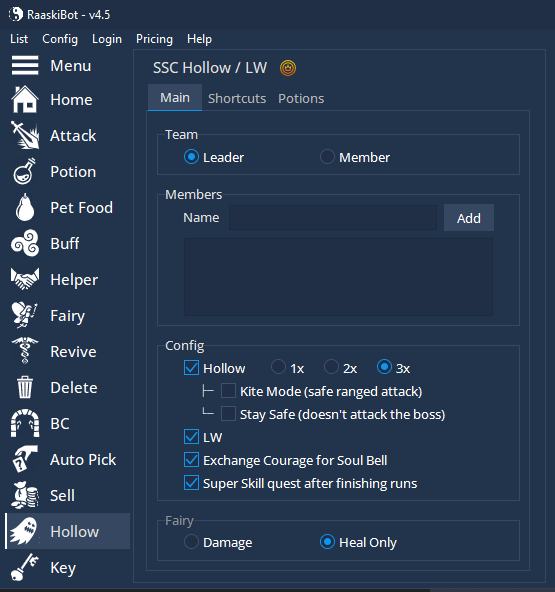
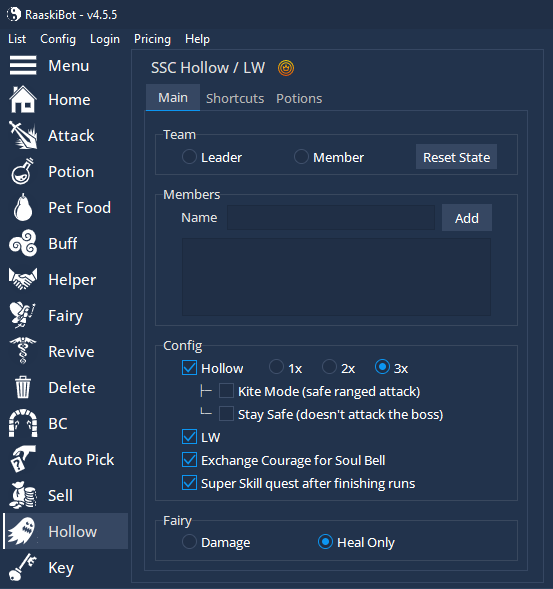
v4.5.5 released

diff --git a/index.html b/index.html
@@ -801,6 +801,7 @@
 						<li>
 							<span data-en="<b>To configure the Hollow function</b>: 
 									<br>• Select who will be the leader of the team.
+									<br>• Every time the Hollow function is started from zero, the leader must be selected and the 'Reset State' button on the Hollow tab must be clicked. This will reset the leader's progress and all team members.
 									<br>• Add the members that will be part of the team.
 									<br>• Choose which settings you want to use: 
 									<br>• • Hollow 1 to 3 times. 
@@ -811,6 +812,7 @@
 									<br>• Stay Safe: will not attack the Hollow, only will stay safe. Useful for weak characters."
 								data-pt="<b>Para configurar a função de Hollow</b>: 
 									<br>• Selecione quem vai ser o líder do time.
+									<br>• Sempre que for iniciar a função de Hollow do zero, é necessário selecionar o líder do time e clicar no botão 'Reset State' na aba Hollow. Isso irá resetar o progresso do líder e de todos os membros do time.
 									<br>• Adicione os membros que farão parte do time.
 									<br>• Escolha quais configurações deseja usar: 
 									<br>• • Hollow de 1 a 3 vezes. 
@@ -829,15 +831,55 @@
 				<!-- Patch Notes -->
 				<article id="patchnotes">
 					<h2 class="major" data-en="Patch Notes" data-pt="Patch Notes"></h2>
+
+					<h3 data-en="Version 4.5.5 - [November 29, 2025]" 
+						data-pt="Versão 4.5.5 - [29/11/2025]"></h3>
+					<ul>
+						<li>
+							<span data-en="The Hollow function was updated: it now saves the team's progress, allowing them to continue together after relog. Whenever you want to start the Hollow function from scratch, you must select the team leader and click the &quot;Reset State&quot; button in the Hollow tab. This resets the progress of the leader and all team members."
+								data-pt="A função de Hollow foi alterada: agora ela salva o progresso do time, permitindo que continuem juntos após o relog. Sempre que for iniciar a função de Hollow do zero, é necessário selecionar o líder do time e clicar no botão &quot;Reset State&quot; na aba Hollow. Isso irá resetar o progresso do líder e de todos os membros do time.">
+							</span>
+						</li>
+						<li>
+							<span data-en="The end of the Hollow path was adjusted to be safer."
+								data-pt="O final do caminho de Hollow foi ajustado para ficar mais seguro.">
+							</span>
+						</li>
+						<li>
+							<span data-en="The BC function now saves run progress, allowing you to use Return to Stone normally. Whenever you need to start the BC function from scratch, reset the progress in BC → Stats → Reset Stats."
+								data-pt="A função de BC agora salva o progresso das runs, permitindo usar o Return to Stone normalmente. Sempre que for iniciar a função de BC do zero, é necessário resetar o progresso em BC → Stats → Reset Stats.">
+							</span>
+						</li>
+						<li>
+							<span data-en="The character list sorting system was redone and is now more accurate."
+								data-pt="A ordenação da lista de chars foi refeita e agora está mais precisa.">
+							</span>
+						</li>
+						<li>
+							<span data-en='New "Reorder List" option in the menu that appears when right-clicking any character in the list.'
+								data-pt='Nova opção "Reorder List" no menu exibido ao clicar com o botão direito em qualquer char da lista.'>
+							</span>
+						</li>
+						<li>
+							<span data-en='New "Auto Relog" option in the menu that appears when right-clicking any character in the list — this makes the account automatically checked in the Login List when the bot starts (must be set individually per char).'
+								data-pt='Nova opção "Auto Relog" no menu exibido ao clicar com o botão direito em qualquer char da lista — isso faz com que a conta seja marcada automaticamente na Lista de Login ao iniciar o bot (deve ser configurado individualmente para cada char).'>
+							</span>
+						</li>
+						<li>
+							<span data-en='New "Auto Reorder" option in the "List" menu, which automatically reorders the character list.'
+								data-pt='Nova opção "Auto Reorder" no menu "List", que faz a lista de chars se reordenar automaticamente.'>
+							</span>
+						</li>
+						<li>
+							<span data-en="Several bugs/crashes related to Login/Relog and the character list have been fixed."
+								data-pt="Alguns bugs/crashes envolvendo Login/Relog e a lista de chars foram corrigidos.">
+							</span>
+						</li>
+					</ul>
 					
 					<h3 data-en="Version 4.5 - [November 21, 2025]" 
 						data-pt="Versão 4.5 - [21/11/2025]"></h3>
 					<ul>
-						<li>
-							<span data-en="Version 4.5 released."
-								data-pt="Versão 4.5 liberada.">
-							</span>
-						</li>
 						<li>
 							<span data-en="New Login/Relog function (bot menu -> Login): logs the character if it is not in the Bot list, relogs in case of disconnection, and automatically starts the bot after logging in. If you placed the Talisman folder in another directory, remember to set the folder location in the &quot;Config -> Set Path&quot; menu on the Login screen."
 								data-pt="Nova função de Login/Relog (menu do bot -> Login): loga o char caso ele não esteja na lista do Bot, reloga caso tenha levado DC e inicia automaticamente o bot depois de logar. Caso voce tenha colocado a pasta do Talisman em outro diretório, lembre-se de definir o local da pasta no menu &quot;Config -> Set Path&quot; da tela de Login.">
